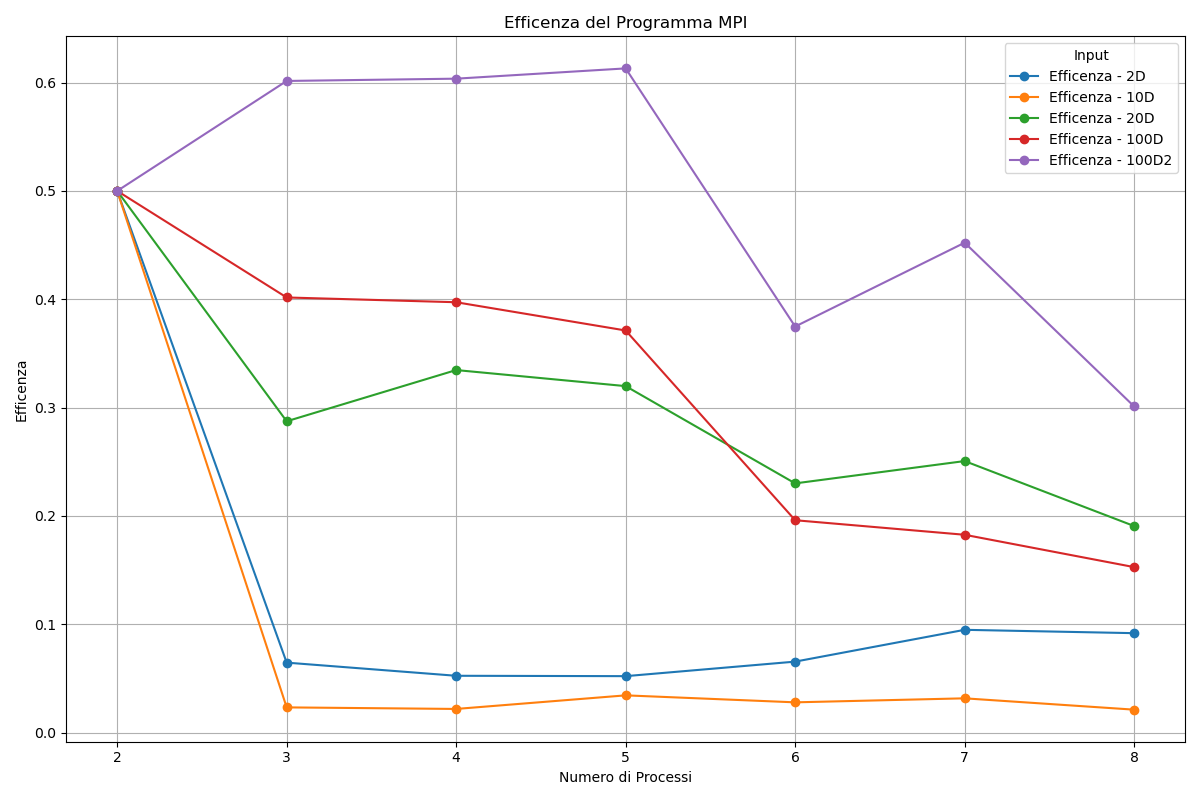
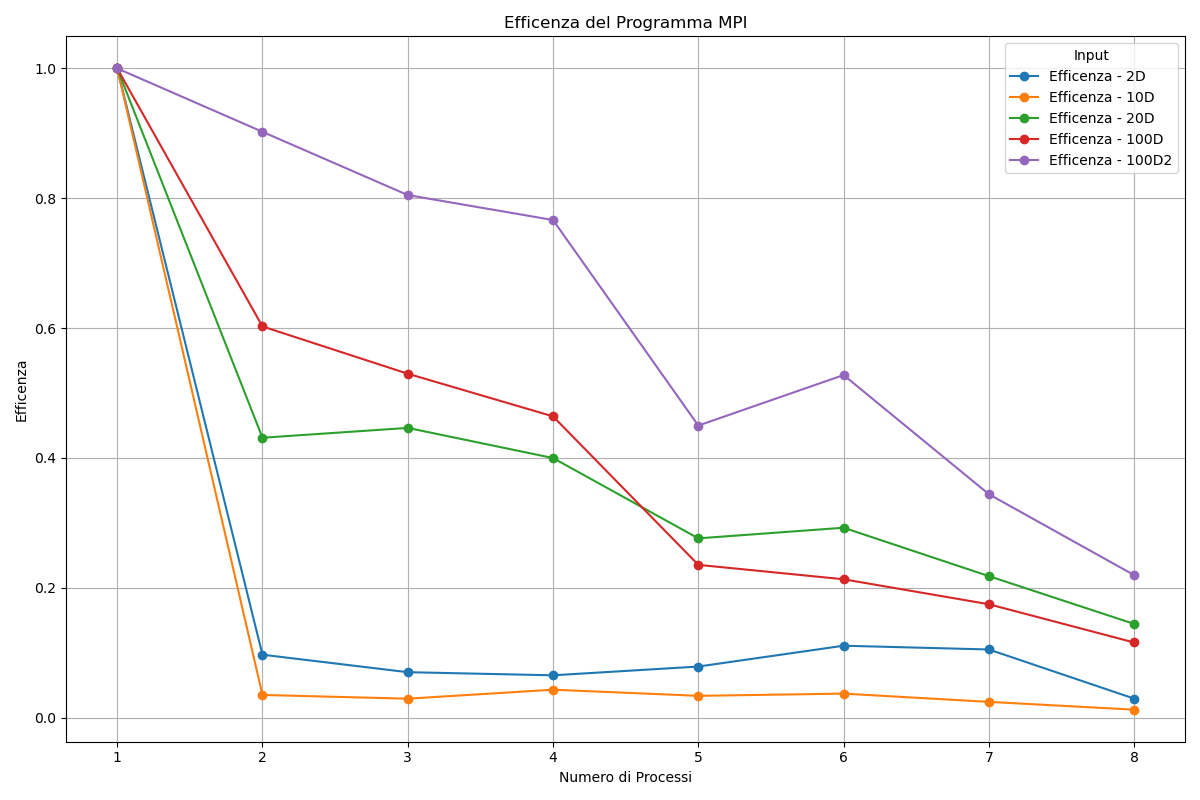
Nuovi grafici

diff --git a/Alessandro/kmeans/grafico2.py b/Alessandro/kmeans/grafico2.py
@@ -23,7 +23,7 @@ mpi_data = {
 "100D":0.020280
 "100D2":0.256416
 """
-num_processi = [2, 3, 4, 5, 6, 7, 8]
+num_processi = [1,2, 3, 4, 5, 6, 7, 8]
 
 # Calcolo dell'efficienza
 # Efficienza è definita come (Tempo seriale / Tempo parallelo) / Numero di processi
